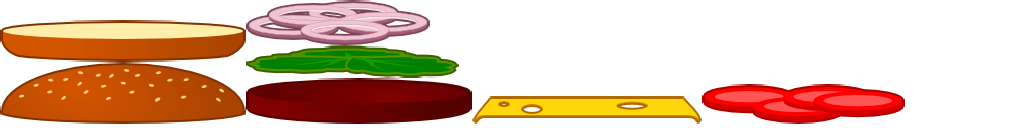
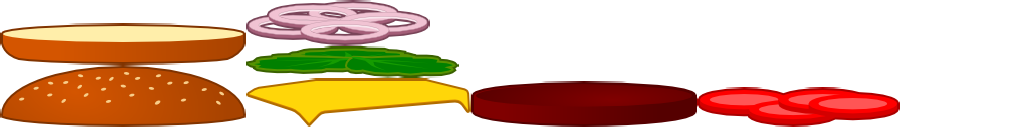
Rework cheese, introduce offset to make it stand out

Changed region(s): [[0.0, 0.3438, 0.9062, 1.0], [0.0, 0.1562, 0.25, 0.3438]]

diff --git a/burgerparty/src/com/agateau/burgerparty/model/BurgerItem.java b/burgerparty/src/com/agateau/burgerparty/model/BurgerItem.java
@@ -6,11 +6,12 @@ public class BurgerItem {
 	private String mName;
 
 	private static HashMap<String, Integer> sHeightMap = new HashMap<String, Integer>();
+	private static HashMap<String, Integer> sOffsetMap = new HashMap<String, Integer>();
 
 	public BurgerItem(String name) {
 		mName = name;
 		if (sHeightMap.isEmpty()) {
-			initHeightMap();
+			initMaps();
 		}
 	}
 
@@ -22,7 +23,11 @@ public class BurgerItem {
 		return sHeightMap.get(mName);
 	}
 
-	private void initHeightMap() {
+	public int getOffset() {
+		return sOffsetMap.get(mName);
+	}
+
+	private void initMaps() {
 		sHeightMap.put("bottom", 20);
 		sHeightMap.put("cheese", 8);
 		sHeightMap.put("onion", 8);
@@ -30,5 +35,13 @@ public class BurgerItem {
 		sHeightMap.put("tomato", 12);
 		sHeightMap.put("salad", 8);
 		sHeightMap.put("top", 32);
+
+		sOffsetMap.put("bottom", 0);
+		sOffsetMap.put("cheese", -19);
+		sOffsetMap.put("onion", -4);
+		sOffsetMap.put("steak", 0);
+		sOffsetMap.put("tomato", -4);
+		sOffsetMap.put("salad", -4);
+		sOffsetMap.put("top", 0);
 	}
 }

diff --git a/burgerparty/src/com/agateau/burgerparty/view/BurgerStackView.java b/burgerparty/src/com/agateau/burgerparty/view/BurgerStackView.java
@@ -62,7 +62,7 @@ public class BurgerStackView extends Group {
 		float regionH = region.getRegionHeight();
 		float posX = (getWidth() - regionW) / 2;
 
-		image.setBounds(posX, mNextY + ADD_ACTION_HEIGHT, regionW, regionH);
+		image.setBounds(posX, mNextY + item.getOffset() + ADD_ACTION_HEIGHT, regionW, regionH);
 		image.setOrigin(image.getWidth() / 2, image.getHeight() / 2);
 		addActor(image);
 
